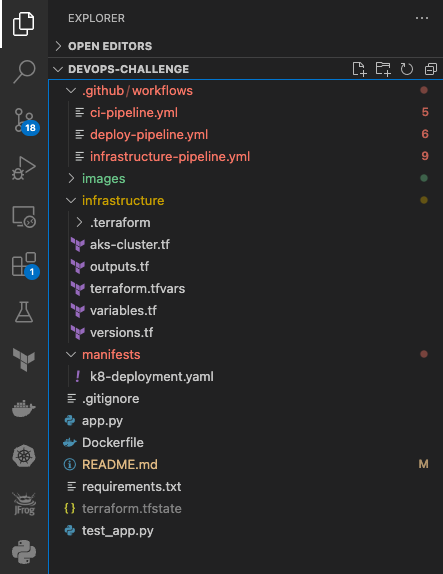
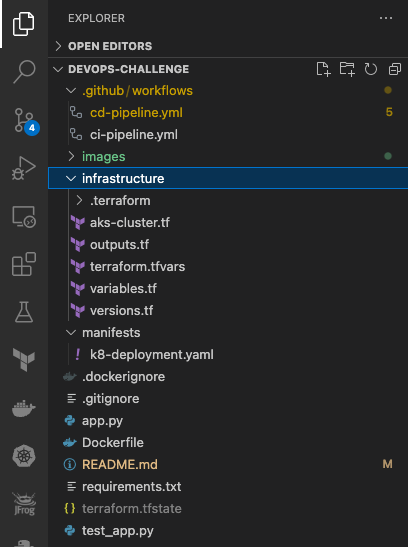
Updting the ReadME

diff --git a/README.md b/README.md
@@ -6,7 +6,7 @@ We will be using IaC Terraform tool to provision AKS in Azure subscription and u
 
 ![AKS](images/AKS.jpg?raw=true "GitHub-workflows")    
 
-### Initial Setup for Az Login and Terraform credentials:
+### Initial Setup for Az Login and Terraform credentials for Local setup:
 
 Here are the steps:
 
@@ -48,6 +48,35 @@ In a terminal, run the following commands to login into Azure. Make sure you hav
             "tenant": "541297fa-e50f-4af1-aee8-52c9542c30ce"
         }
 
+### GitHub and Terrafrom environment setup:
+
+
+1. Azure Storage for TF State file: 
+Make sure to create a storage container to save Terraform State file in Azure cloud to maintain the state. Here are the steps to create Storage container.
+
+        # Create Resource Group
+        az group create -n terraform-github-actions-state-rg -l eastus2
+
+        # Create Storage Account
+        az storage account create -n tfstaccount -g terraform-github-actions-state-rg -l eastus2 --sku Standard_LRS
+
+        # Create Storage Account Container
+        az storage container create -n tfstate --account-name tfstaccount
+
+
+2. Setup GitHub Secrets
+Setting-up GitHub Action secrets by mapping the above 2 command outputs to the GitHub Secrets. Subscription Id you can findout rom az login output:
+Save the above values into GitHub Action Secrets:
+
+        ARM_CLIENT_ID: "${{ secrets.AZURE_CLIENT_ID }}"  // appId
+        ARM_SUBSCRIPTION_ID: "${{ secrets.AZURE_SUBSCRIPTION_ID }}" //Azure subscription Id
+        ARM_TENANT_ID: "${{ secrets.AZURE_TENANT_ID }}" // tenant
+        ARM_CLIENT_SECRET: ${{ secrets.AZURE_CLIENT_SECRET }}     // password
+
+![AKS](images/GitHub-secrets.png?raw=true "Secrets") 
+
+![AKS](images/secrets.png?raw=true "Secrets")  
+
 
 ## GitHub Repository, workflows and Actions for CI/CD pipeline
 
@@ -61,19 +90,15 @@ Code structure and GitHub workflow. It comprises of Python code and unit test ca
 
 ## GitHub Workflows Pipeline Summary. 
 
-Comprises of 3 GitHub workflows:
+Comprises of 2 GitHub workflows:
 
 ### 1. CI Pipeline
 
 ![GitHub](images/CI-pipeline.png?raw=true "CI-pipeline")
 
-### 2. Infrastructure Pipeline
+### 2. CD Pipeline
 
-![GitHub](images/Infrastructure-pipeline.png?raw=true "Infra-pipeline")
-
-### 3. Deploy Pipeline
-
-![GitHub](images/Deploy-pipeline.png?raw=true "Deploy-pipeline")
+![GitHub](images/CD-pipeline.png?raw=true "Deploy-pipeline")
 
 
 ## Details of CI Pipeleine
@@ -95,84 +120,18 @@ Pulling the docker image from GitHub registry , and running unit tests on contai
 
 ![Testing](images/test-image.png?raw=true "testing image")
 
-## Details of Infrastructure Pipeline
+## Details of CD Pipeline
 
-Triggers after successfully merge the code into main branch with all tests and validations passed. Terraform calls Azure ARM to Provision AKS cluster in Azure.
+Triggers after successfully merge the code into main branch with all tests and validations passed. Terraform calls Azure ARM to Provision AKS cluster in Azure and later on deploy the application code into AKS using deployment manifest file.
 
-### 1. Azure Storage for TF State file: 
+### 1. Provisioning AKS using Terrafrom:  
+Terraform Initialization, Terraform Validation and Formatting, Terraform Planing, and Terraform Execution by saving State file.   
 
-Make sure to create a storage container to save Terraform State file in Azure cloud to maintain the state. Here are the steps to create Storage container.
+![AKS](images/Infrastructure-pipeline.png?raw=true "Secrets")  
 
-```
-# Create Resource Group
-az group create -n terraform-github-actions-state-rg -l eastus2
-
-# Create Storage Account
-az storage account create -n tfstaccount -g terraform-github-actions-state-rg -l eastus2 --sku Standard_LRS
-
-# Create Storage Account Container
-az storage container create -n tfstate --account-name tfstaccount
-```
-
-## 2. Setup GitHub Secrets
-Setting-up GitHub Action secrets by mapping the above 2 command outputs to the GitHub Secrets. Subscription Id you can findout rom az login output:
-
-```
- {
-    "id": "cb3f5660-48a2-492f-bd16-e2adfe209dc6"
- }
-
- {
-     "appId": "b9e3ed69-4db2-46d3-91c3-977ec9bb71e0",
-     "displayName": "azure-cli-2023-04-26-20-49-01",
-     "password": "be78Q~nZKpbxgIDs.CQGwwOAoDTu321mYC72OcR_",
-     "tenant": "541297fa-e50f-4af1-aee8-52c9542c30ce"
- }
-```
- Save the above values into GitHub Action Secrets:
-
-    ARM_CLIENT_ID: "${{ secrets.AZURE_CLIENT_ID }}"  // appId
-    ARM_SUBSCRIPTION_ID: "${{ secrets.AZURE_SUBSCRIPTION_ID }}" //Azure subscription Id
-    ARM_TENANT_ID: "${{ secrets.AZURE_TENANT_ID }}" // tenant
-    ARM_CLIENT_SECRET: ${{ secrets.AZURE_CLIENT_SECRET }}     // password
-
-### 2. Infrstructure Provisioning: 
-Terraform Initialization, Terraform Validation and Formatting, Terraform Planing, and Terraform Execution by saving State file. 
-
-## Details of Deployment Pipeline
-
-### Deployment to AKS: 
-Setup kubectl, AKS context, Creating secrets for image registry pull, and Deploy manifest file by creating resources.  
-
-Deployment pipeline is dependent on Infrastructure pipeline workflow.
-
-Prerequisite: Setup Secret with azure Credentils in GitHub Action using Environment 'Azure' after creating Azure K8 clusters from Infrastructure pipeline. Here are the following steps: 
-
-### 1. Create Service Principal using the following AZ CLI command:
-
-```
-az ad sp create-for-rbac --name "devops-challenge" --role contributor \
-                                --scopes /subscriptions/cb3f5660-48a2-492f-bd16-e2adfe209dc6/resourceGroups/smashing-shrew-rg \
-                                --sdk-auth
-
-{
-  "clientId": "2dbde139-23a1-4fd9-951b-37a30d4a0b7f",
-  "clientSecret": "Dvj8Q~DBdEiEqwmXrM2oM-rS9U3~jpMYJyWq9c.w",
-  "subscriptionId": "cb3f5660-48a2-492f-bd16-e2adfe209dc6",
-  "tenantId": "541297fa-e50f-4af1-aee8-52c9542c30ce",
-  "activeDirectoryEndpointUrl": "https://login.microsoftonline.com",
-  "resourceManagerEndpointUrl": "https://management.azure.com/",
-  "activeDirectoryGraphResourceId": "https://graph.windows.net/",
-  "sqlManagementEndpointUrl": "https://management.core.windows.net:8443/",
-  "galleryEndpointUrl": "https://gallery.azure.com/",
-  "managementEndpointUrl": "https://management.core.windows.net/"
-}                                
-```
-
-### 2. Create Secrets in GitHub Environment by copying the output into GitHub Secrets variable:
-
-![AKS](images/secrets.png?raw=true "Secrets")    
+### 2. Deploying code into AKS: 
+Setup kubectl, AKS context, Creating secrets for image registry pull, and Deploy manifest file by creating resources.    
       
-
+![AKS](images/Deploy-pipeline.png?raw=true "Secrets") 
 
 
